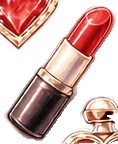
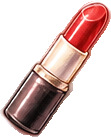
fix(pearl): 改名珍珠女士，四角星换成口红和小爱心，插件图标不再空白
顶栏图标统一给默认小爱心底图，插件额外加的抽屉图标不会再显示成空白。
口红素材去掉了旁边爱心宝石和香水瓶的残片。

Claude-Session: https://claude.ai/code/session_01DBiGjLdVpenBf2hdyH2dq2

diff --git a/pearl/src/theme.css b/pearl/src/theme.css
@@ -1,4 +1,4 @@
-/*【珍珠红唇】宁宁 × Claude 自制
+/*【珍珠女士】宁宁 × Claude 自制
   素材：Ttsningning/orange-shop-assets1 仓库 pearl 文件夹
   结构参考了易碎蝶老师的拼接气泡思路，代码为重新编写
   ⭕ 想调位置、颜色、文字，只改下面 :root 里的变量就行 */
@@ -356,9 +356,9 @@ body {
     left: 0;
     top: 50%;
     transform: translateY(-50%);
-    width: 22px;
+    width: 20px;
     height: 18px;
-    background: url("IMG/deco_sparkle.png") center / contain no-repeat;
+    background: url("IMG/deco_heartgem.png") center / contain no-repeat;
 }
 #chat .mes .mes_reasoning {
     color: #8a4a58 !important;
@@ -403,6 +403,7 @@ body {
     font-size: 0 !important;
     background: center / contain no-repeat;
     opacity: 1 !important;
+    background-image: url("IMG/deco_heartgem.png");   /* 插件加的图标没有专属图时，默认用小爱心，不会空白 */
     filter: drop-shadow(0 0 3px rgba(255, 220, 215, .7));
     transition: transform .25s ease;
 }
@@ -602,8 +603,8 @@ body {
     top: 50%;
     transform: translateY(-50%);
     width: 18px;
-    height: 20px;
-    background: url("IMG/deco_star1.png") center / contain no-repeat;
+    height: 18px;
+    background: url("IMG/deco_heartgem.png") center / contain no-repeat;
 }
 
 .menu_button {
@@ -637,11 +638,11 @@ input[type="checkbox"]:checked { background-color: #b0303f !important; }
 
 input[type="range"]::-webkit-slider-thumb {
     -webkit-appearance: none;
-    width: 22px;
-    height: 24px;
+    width: 16px;
+    height: 28px;
     border: 0;
     border-radius: 0;
-    background: url("IMG/deco_star1.png") center / contain no-repeat;
+    background: url("IMG/deco_lipstick.png") center / contain no-repeat;
     box-shadow: none;
 }
 .neo-range-slider {

diff --git a/pearl/src/build.py b/pearl/src/build.py
@@ -1,5 +1,5 @@
 """把 theme.css 打包成酒馆可导入的主题 JSON。
-用法：python3 build.py  → 生成上一级目录里的 珍珠红唇.json
+用法：python3 build.py  → 生成上一级目录里的 珍珠女士.json
 """
 import json, pathlib
 
@@ -7,7 +7,7 @@ HERE = pathlib.Path(__file__).resolve().parent
 CDN = "https://cdn.jsdelivr.net/gh/Ttsningning/orange-shop-assets1@main/pearl/"
 
 SETTINGS = {
-    "name": "珍珠红唇",
+    "name": "珍珠女士",
     "blur_strength": 0,
     "main_text_color": "rgba(91, 34, 48, 1)",
     "italics_text_color": "rgba(160, 86, 106, 1)",
@@ -54,6 +54,6 @@ def css(base: str) -> str:
 
 if __name__ == "__main__":
     data = dict(SETTINGS, custom_css=css(CDN))
-    out = HERE.parent / "珍珠红唇.json"
+    out = HERE.parent / "珍珠女士.json"
     out.write_text(json.dumps(data, ensure_ascii=False, indent=4), encoding="utf-8")
     print("wrote", out)

diff --git a/pearl/README.md b/pearl/README.md
@@ -1,8 +1,8 @@
-# 珍珠红唇（酒馆美化）
+# 珍珠女士（酒馆美化）
 
 宁宁 × Claude 自制的 SillyTavern 手机端美化：酒红、珍珠、玫瑰和复古少女漫。素材都是透明底 PNG，通过 jsDelivr 引用。
 
-- 导入：酒馆 → 用户设置 → UI 主题 → 导入 `珍珠红唇.json`
+- 导入：酒馆 → 用户设置 → UI 主题 → 导入 `珍珠女士.json`
 - 调位置、颜色：改 `src/theme.css` 开头 `:root` 里的变量，然后运行 `python3 src/build.py` 重新生成 JSON
 - 链接前缀：`https://cdn.jsdelivr.net/gh/Ttsningning/orange-shop-assets1@main/pearl/`
 
